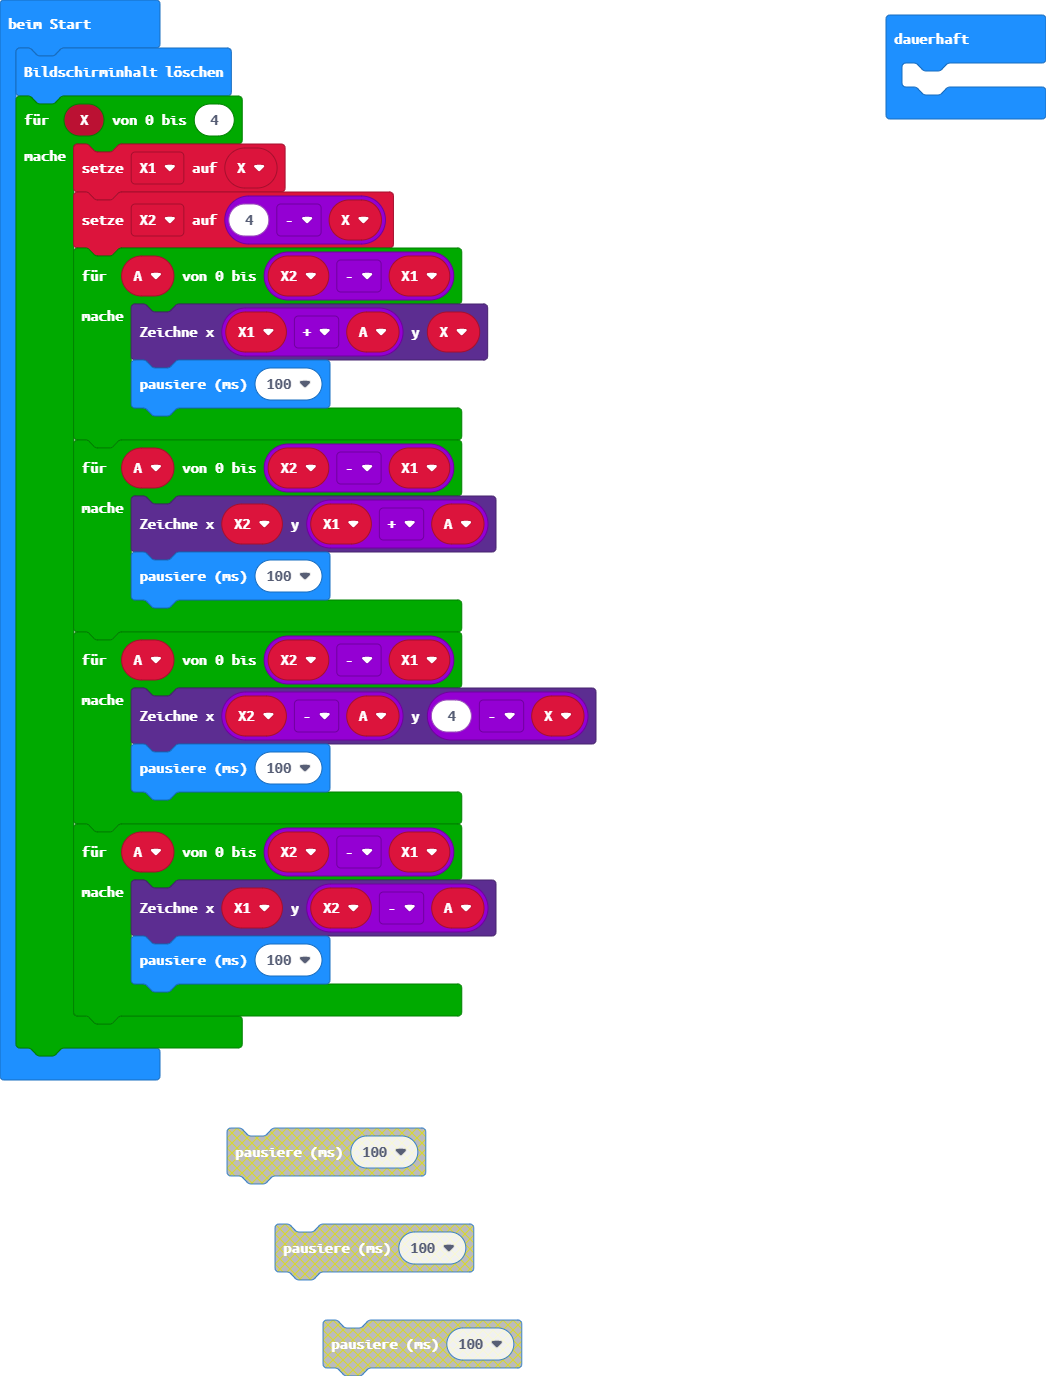
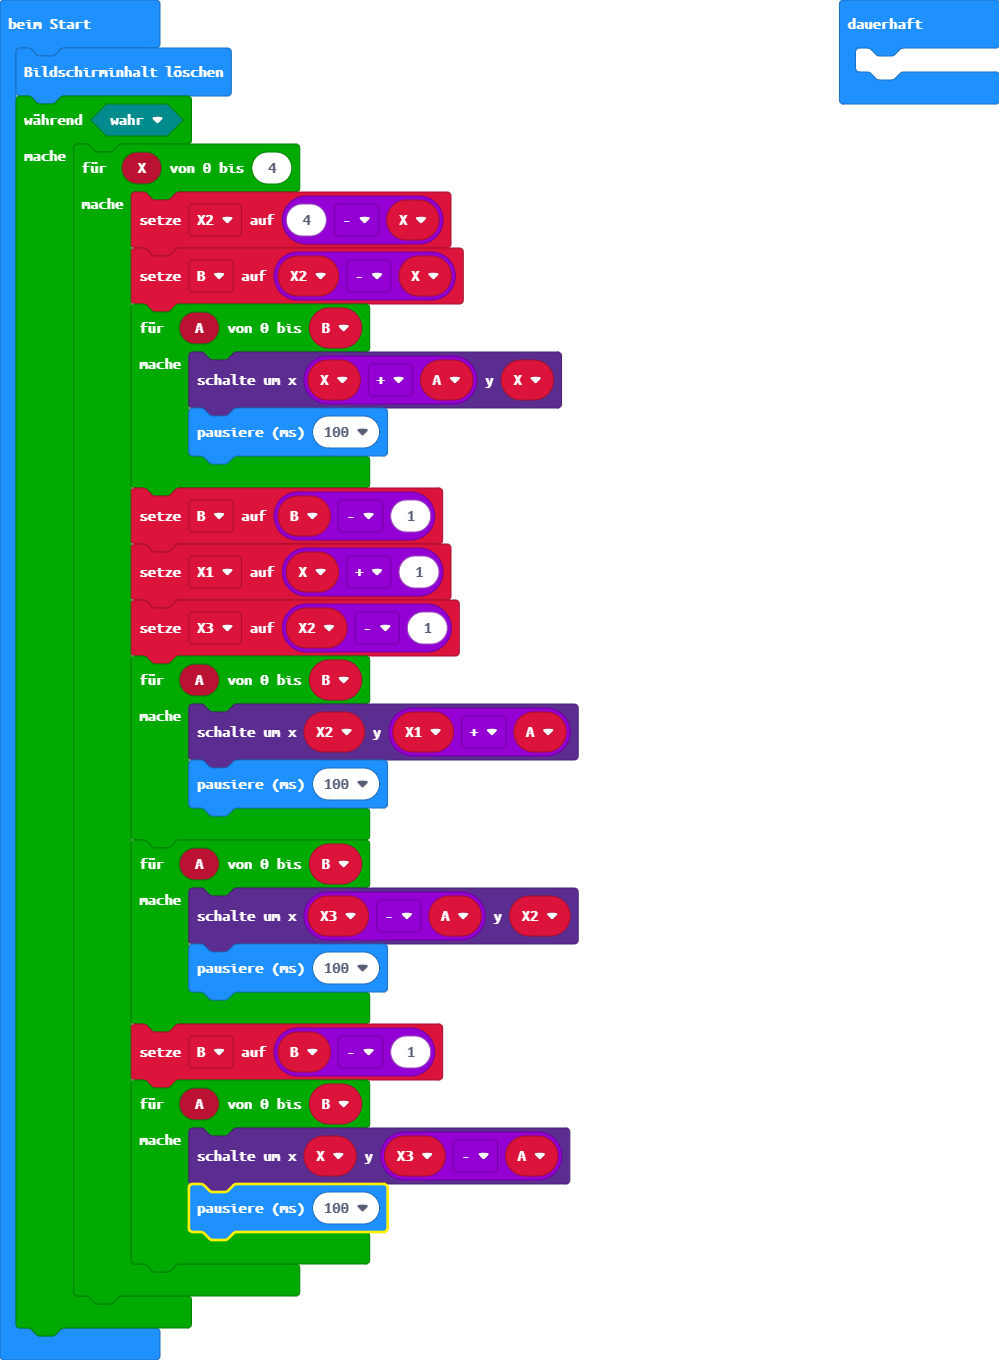
Aktualisiere main.blocks, main.ts

diff --git a/main.ts b/main.ts
@@ -1,24 +1,32 @@
-let X2 = 0
+let X3 = 0
 let X1 = 0
+let B = 0
+let X2 = 0
 basic.clearScreen()
-for (let X = 0; X <= 4; X++) {
-    X1 = X
-    X2 = 4 - X
-    for (let A = 0; A <= X2 - X1; A++) {
-        led.plot(X1 + A, X)
-        basic.pause(100)
-    }
-    for (let A = 0; A <= X2 - X1; A++) {
-        led.plot(X2, X1 + A)
-        basic.pause(100)
-    }
-    for (let A = 0; A <= X2 - X1; A++) {
-        led.plot(X2 - A, 4 - X)
-        basic.pause(100)
-    }
-    for (let A = 0; A <= X2 - X1; A++) {
-        led.plot(X1, X2 - A)
-        basic.pause(100)
+while (true) {
+    for (let X = 0; X <= 4; X++) {
+        X2 = 4 - X
+        B = X2 - X
+        for (let A = 0; A <= B; A++) {
+            led.toggle(X + A, X)
+            basic.pause(100)
+        }
+        B = B - 1
+        X1 = X + 1
+        X3 = X2 - 1
+        for (let A = 0; A <= B; A++) {
+            led.toggle(X2, X1 + A)
+            basic.pause(100)
+        }
+        for (let A = 0; A <= B; A++) {
+            led.toggle(X3 - A, X2)
+            basic.pause(100)
+        }
+        B = B - 1
+        for (let A = 0; A <= B; A++) {
+            led.toggle(X, X3 - A)
+            basic.pause(100)
+        }
     }
 }
 basic.forever(function () {
